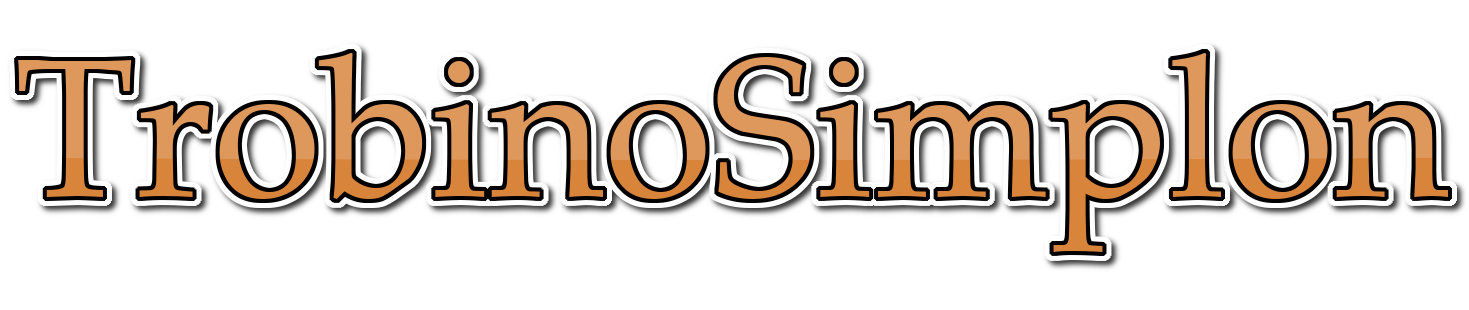
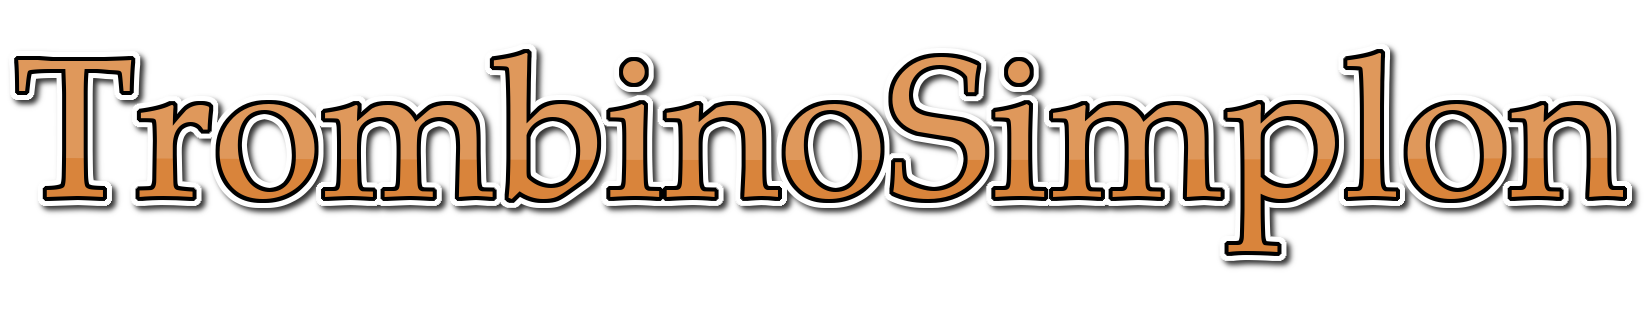
titre modifie et footer a jour

Changed region(s): [[0.0, 0.1452, 1.0, 0.871]]

diff --git a/index.html b/index.html
@@ -131,7 +131,7 @@
     </ul>
     
     <footer>
-        Site réalisé principalement par Léo Tellier toutefois la barre que vous observez actuellement a été fait avec passion par Jonathan Louvet
+        <p>&copy; 2024 Léo Tellier & Jonathan Louvet. Libre de droits.</p>
     </footer>
     <script src="https://cdn.jsdelivr.net/npm/flowbite@2.5.2/dist/flowbite.min.js"></script>
     <script src="js/script.js"></script>
